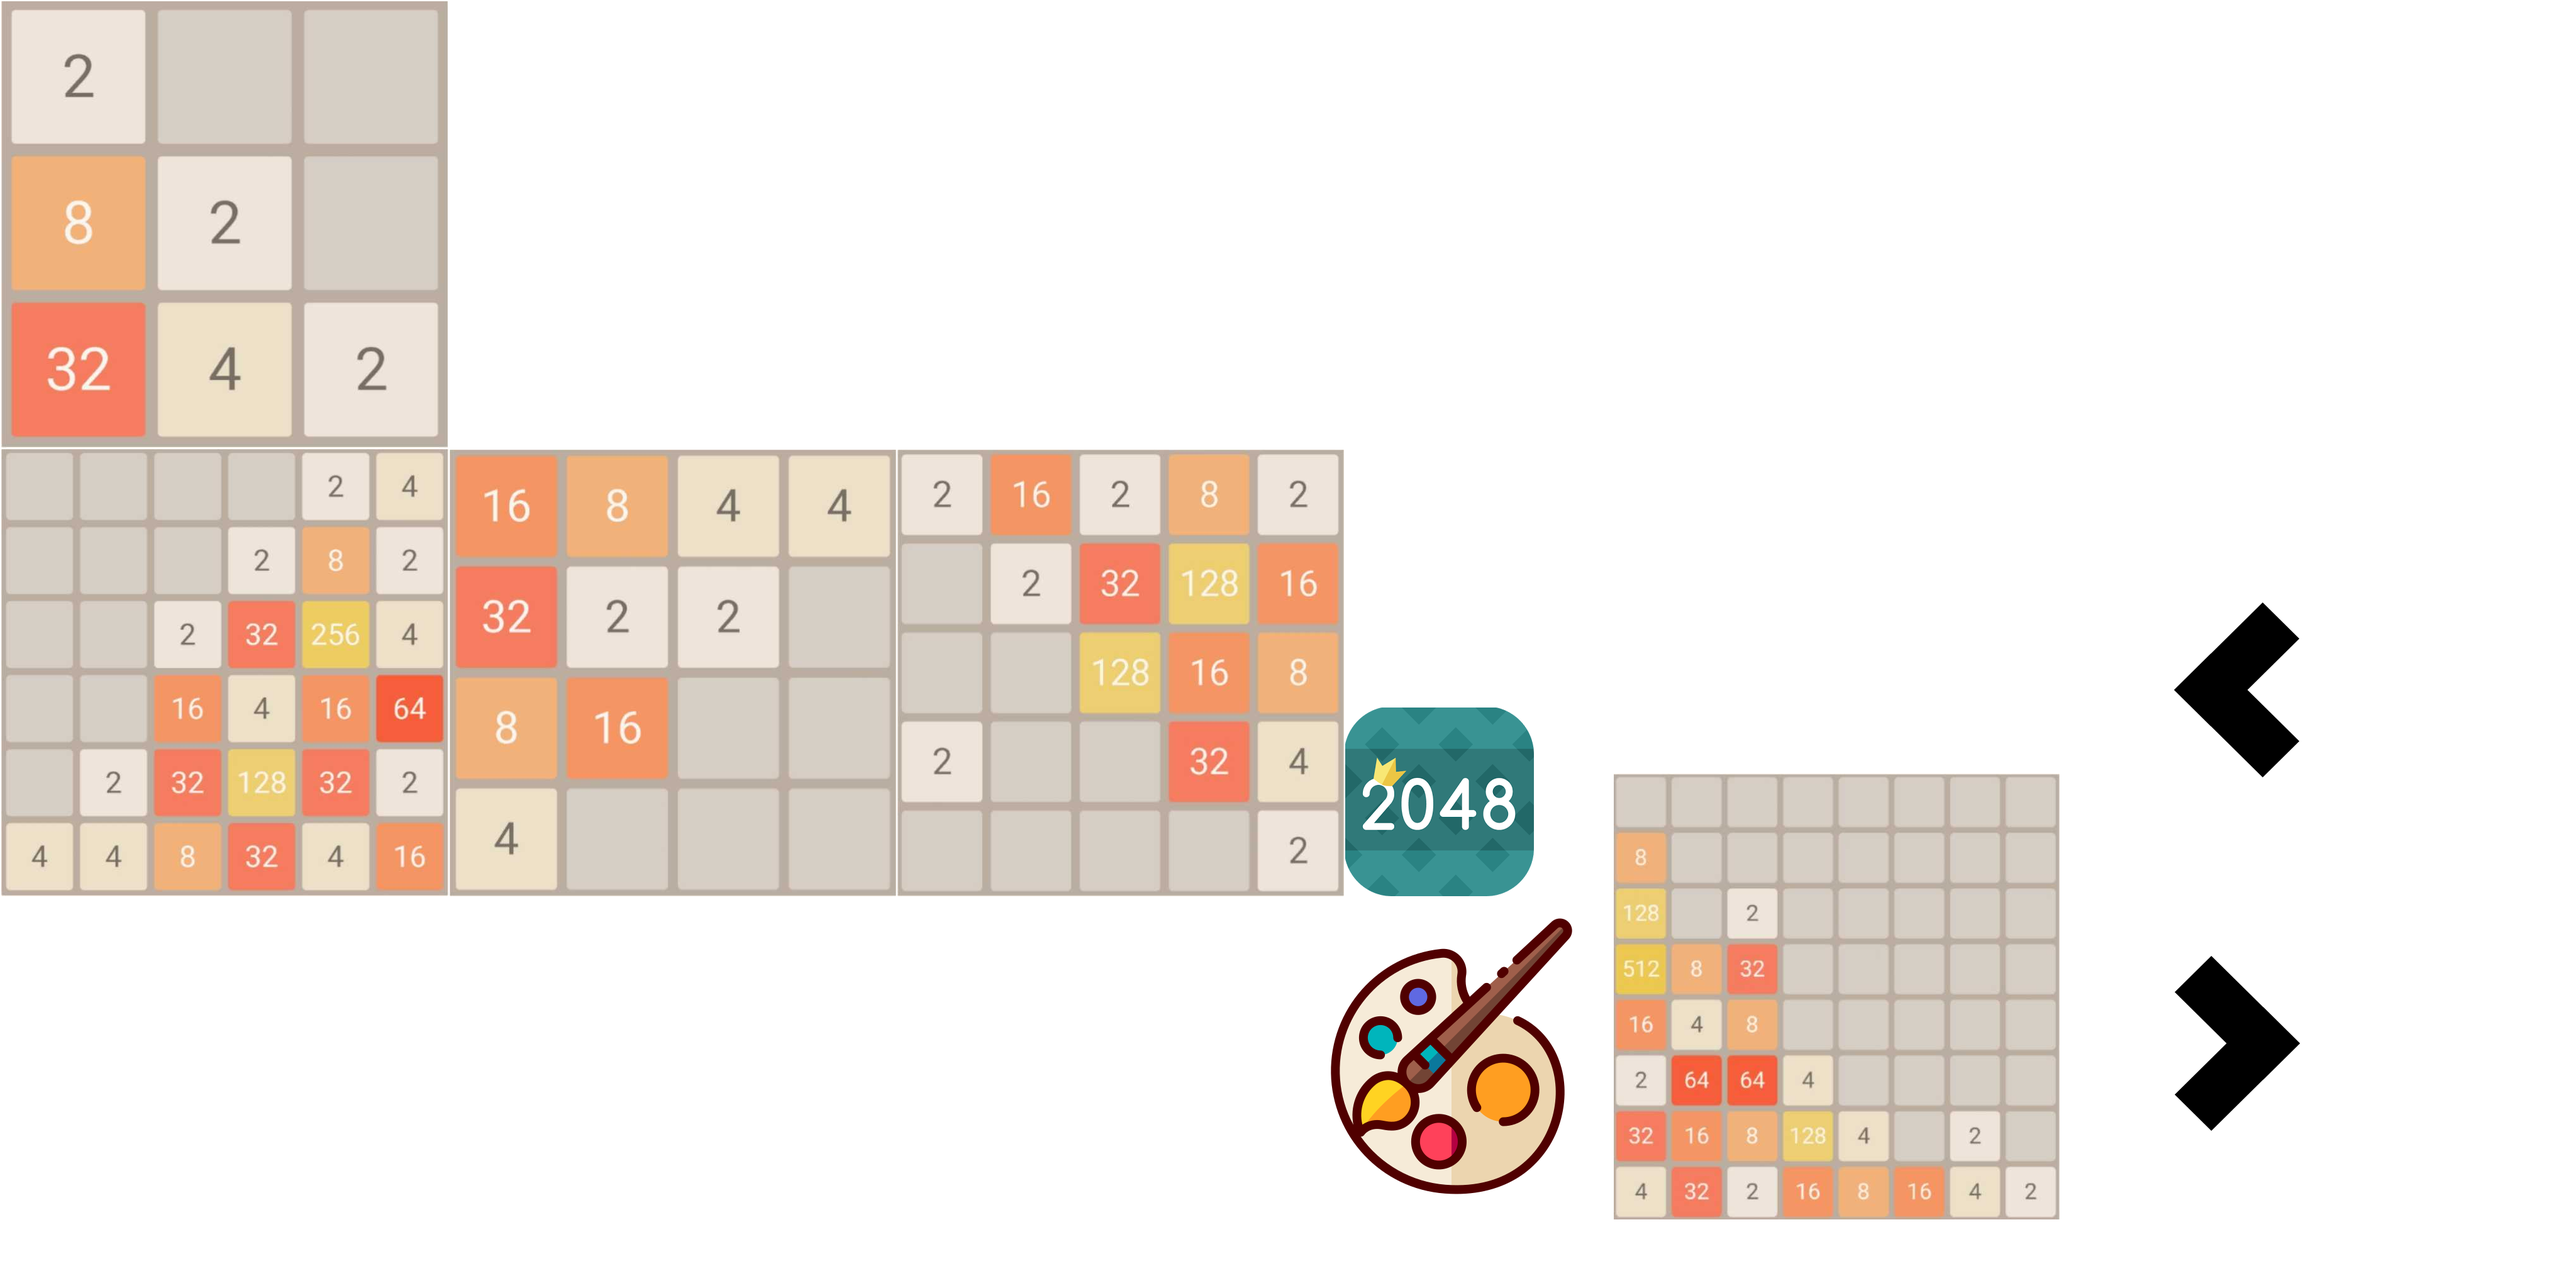
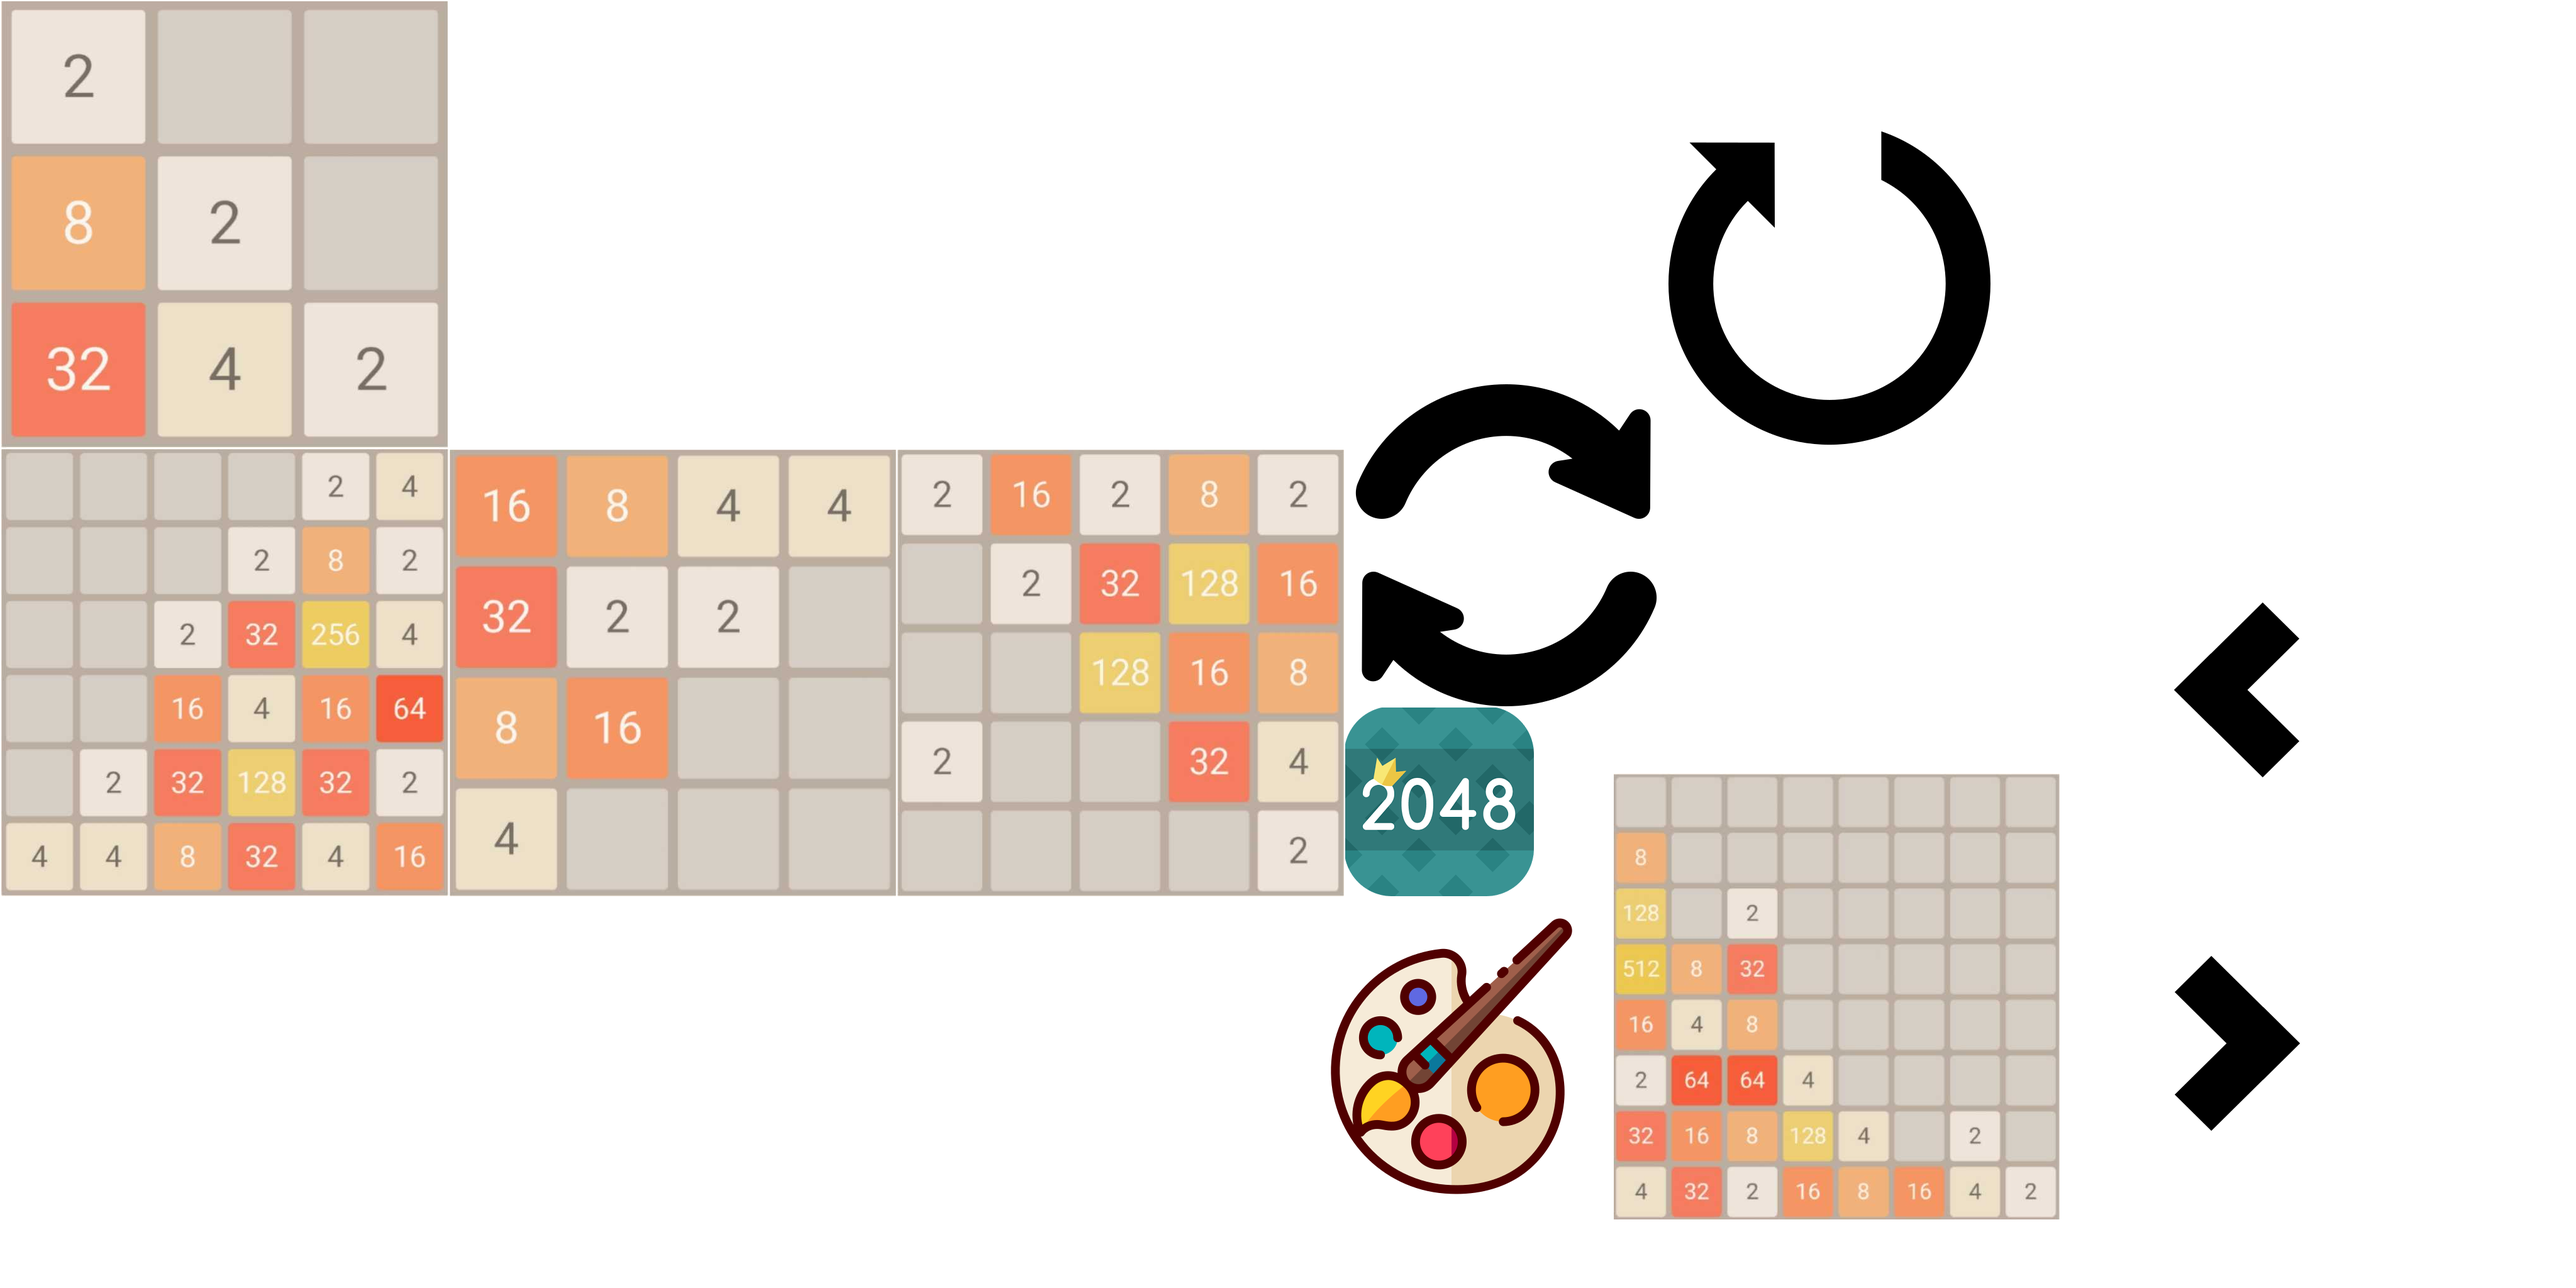
is created the BoardGroup, and GameScreen is modified

Changed region(s): [[0.5, 0.0938, 0.7812, 0.4062], [0.5312, 0.4375, 0.6562, 0.5625]]

diff --git a/core/src/com/mygdx/game/stages/GameStage.java b/core/src/com/mygdx/game/stages/GameStage.java
@@ -3,10 +3,11 @@ package com.mygdx.game.stages;
 import com.badlogic.gdx.Gdx;
 import com.badlogic.gdx.graphics.Color;
 import com.badlogic.gdx.graphics.g2d.TextureAtlas;
+import com.badlogic.gdx.scenes.scene2d.Group;
 import com.badlogic.gdx.scenes.scene2d.Stage;
+import com.badlogic.gdx.scenes.scene2d.actions.Actions;
 import com.badlogic.gdx.scenes.scene2d.ui.Button;
-import com.badlogic.gdx.scenes.scene2d.ui.Container;
-import com.badlogic.gdx.scenes.scene2d.ui.HorizontalGroup;
+import com.badlogic.gdx.scenes.scene2d.ui.Image;
 import com.badlogic.gdx.scenes.scene2d.ui.Label;
 import com.badlogic.gdx.scenes.scene2d.ui.Skin;
 import com.badlogic.gdx.scenes.scene2d.ui.Table;
@@ -15,6 +16,7 @@ import com.badlogic.gdx.utils.Align;
 import com.badlogic.gdx.utils.viewport.Viewport;
 import com.mygdx.game.managers.AssetsManager;
 import com.mygdx.game.managers.DataManager;
+import com.mygdx.game.utils.BoardGroup;
 import com.mygdx.game.utils.ConstInterface;
 
 /**
@@ -27,13 +29,12 @@ public class GameStage extends Stage {
     private AssetsManager assetsManager;
     private Skin skin;
     private Label titleLabel;
-    private HorizontalGroup horizontalGroup1;
-    private HorizontalGroup horizontalGroup2;
     private Table table;
     private TextButton countTextBtn;
     private TextButton recordTextBtn;
     private Button restartBtn;
-    private Button canceltBtn;
+    private Button cancelBan;
+    private BoardGroup boardGroup;
 
     public GameStage(final Viewport viewport) {
         super(viewport);
@@ -44,8 +45,12 @@ public class GameStage extends Stage {
         initManagers();
         initLabels();
         initButtons();
-        initHorizontalGroups();
+        initBoardGroup();
         initTable();
+    }
+
+    private void initBoardGroup() {
+        boardGroup = new BoardGroup();
     }
 
     private void initLabels() {
@@ -69,24 +74,17 @@ public class GameStage extends Stage {
         table = new Table();
         table.setSize(Gdx.graphics.getWidth(), Gdx.graphics.getHeight());
         table.top();
-//        table.add(horizontalGroup1).size(horizontalGroup1.getWidth(), horizontalGroup1.getHeight()).expandX();
-        table.add(titleLabel).size(titleLabel.getWidth(), titleLabel.getHeight()).left().expandX();
+        table.add(titleLabel).size(titleLabel.getWidth(), titleLabel.getHeight()).expandX().left();
         table.add(countTextBtn).size(countTextBtn.getWidth(), countTextBtn.getHeight()).right();
-        table.add(recordTextBtn).size(recordTextBtn.getWidth(), recordTextBtn.getHeight()).right();
+        table.add(recordTextBtn).size(recordTextBtn.getWidth(), recordTextBtn.getHeight()).right().padLeft(recordTextBtn.getWidth() * 0.2f).padRight(recordTextBtn.getWidth() * 0.2f);
+        table.row().right();
+        table.add().left();
+        table.add(cancelBan).size(cancelBan.getWidth(), cancelBan.getHeight()).right();
+        table.add(restartBtn).size(restartBtn.getWidth(), restartBtn.getHeight()).right().padLeft(recordTextBtn.getWidth() * 0.2f).padRight(recordTextBtn.getWidth() * 0.2f);
+        table.row();
+        table.add(boardGroup).size(boardGroup.getWidth(), boardGroup.getHeight()).colspan(3).spaceTop(boardGroup.getWidth() * 0.02f);
         addActor(table);
-        table.debugAll();
-    }
-
-    private void initHorizontalGroups() {
-        horizontalGroup1 = new HorizontalGroup();
-        horizontalGroup1.setSize(Gdx.graphics.getWidth(), Gdx.graphics.getHeight() * 0.15f);
-        horizontalGroup1.addActor(new Container<>(titleLabel).size(titleLabel.getWidth(), titleLabel.getHeight()).left());
-        horizontalGroup1.addActor(new Container<>(countTextBtn).size(countTextBtn.getWidth(), countTextBtn.getHeight()).right());
-        horizontalGroup1.addActor(new Container<>(recordTextBtn).size(recordTextBtn.getWidth(), recordTextBtn.getHeight()).right());
-
-        horizontalGroup2 = new HorizontalGroup();
-
-
+        //table.debugAll();
     }
 
     private void initButtons() {
@@ -94,12 +92,24 @@ public class GameStage extends Stage {
         textButtonStyle.font = assetsManager.getInternalManager().get(ConstInterface.CONSOLAS_SMALL_FONT);
         textButtonStyle.fontColor = Color.BLACK;
 
-        countTextBtn = new TextButton("count", textButtonStyle);
-        countTextBtn.setSize(Gdx.graphics.getWidth() * 0.15f, Gdx.graphics.getWidth() * 0.15f);
+        countTextBtn = new TextButton("score", textButtonStyle);
+        countTextBtn.setSize(Gdx.graphics.getWidth() * 0.2f, Gdx.graphics.getWidth() * 0.2f);
         countTextBtn.getLabel().setAlignment(Align.top);
 
         recordTextBtn = new TextButton("record", textButtonStyle);
-        recordTextBtn.setSize(Gdx.graphics.getWidth() * 0.15f, Gdx.graphics.getWidth() * 0.15f);
+        recordTextBtn.setSize(Gdx.graphics.getWidth() * 0.2f, Gdx.graphics.getWidth() * 0.2f);
         recordTextBtn.getLabel().setAlignment(Align.top);
+
+        cancelBan = new Button(new Button.ButtonStyle());
+        cancelBan.setSize(Gdx.graphics.getWidth() * 0.2f, Gdx.graphics.getWidth() * 0.2f);
+        Image cancelImg = new Image(skin.getDrawable(ConstInterface.CANCEL));
+        cancelImg.setSize(Gdx.graphics.getWidth() * 0.05f, Gdx.graphics.getWidth() * 0.05f);
+        cancelBan.add(cancelImg).size(cancelImg.getWidth(), cancelImg.getHeight());
+
+        restartBtn = new Button(new Button.ButtonStyle());
+        restartBtn.setSize(Gdx.graphics.getWidth() * 0.2f, Gdx.graphics.getWidth() * 0.2f);
+        Image restartImg = new Image(skin.getDrawable(ConstInterface.RESTART));
+        restartImg.setSize(Gdx.graphics.getWidth() * 0.05f, Gdx.graphics.getWidth() * 0.05f);
+        restartBtn.add(restartImg).size(restartImg.getWidth(), restartImg.getHeight());
     }
 }

diff --git a/core/src/com/mygdx/game/utils/BoardGroup.java b/core/src/com/mygdx/game/utils/BoardGroup.java
@@ -1,0 +1,42 @@
+package com.mygdx.game.utils;
+
+import com.badlogic.gdx.Gdx;
+import com.badlogic.gdx.graphics.Color;
+import com.badlogic.gdx.scenes.scene2d.Group;
+import com.badlogic.gdx.scenes.scene2d.actions.Actions;
+import com.badlogic.gdx.scenes.scene2d.ui.Image;
+import com.badlogic.gdx.scenes.scene2d.ui.Skin;
+import com.mygdx.game.managers.AssetsManager;
+
+public class BoardGroup extends Group {
+    private int level;
+    private Skin skin;
+    private NumberGroup[][] numberGroups;
+
+    public BoardGroup(int level) {
+        this.level = level;
+        init();
+        this.setSize(Gdx.graphics.getWidth() * 0.9f, Gdx.graphics.getWidth() * 0.9f);
+        Image boardImg = new Image(skin.getDrawable(ConstInterface.WHITE_RECT));
+        boardImg.setSize(this.getWidth(), this.getHeight());
+        Image image = new Image(skin.getDrawable(ConstInterface.NUMBER_BG));
+        image.setSize(60, 60);
+        boardImg.addAction(Actions.color(new Color(0.74f, 0.67f, 0.64f, 1)));
+        addActor(boardImg);
+        addActor(image);
+    }
+
+    private void init() {
+        initSkin();
+    }
+
+    private void initNumberGroups(){
+        numberGroups = new NumberGroup[level][level];
+
+    }
+
+    private void initSkin() {
+        skin = new Skin();
+        skin.addRegions(AssetsManager.getInstance().getInternalManager().get(ConstInterface.IMAGES_PATH + ConstInterface.ATLAS));
+    }
+}

diff --git a/core/src/com/mygdx/game/utils/NumberGroup.java b/core/src/com/mygdx/game/utils/NumberGroup.java
@@ -1,0 +1,30 @@
+package com.mygdx.game.utils;
+
+import com.badlogic.gdx.graphics.Color;
+import com.badlogic.gdx.scenes.scene2d.Group;
+import com.badlogic.gdx.scenes.scene2d.actions.Actions;
+import com.badlogic.gdx.scenes.scene2d.ui.Image;
+import com.badlogic.gdx.scenes.scene2d.ui.Skin;
+import com.mygdx.game.managers.AssetsManager;
+
+public class NumberGroup extends Group {
+    private Skin skin;
+    private Image numberImg;
+
+    public NumberGroup() {
+        init();
+    }
+
+    private void init() {
+        skin = new Skin();
+        skin.addRegions(AssetsManager.getInstance().getInternalManager().get(ConstInterface.ATLAS));
+
+        numberImg = new Image(skin.getDrawable(ConstInterface.NUMBER_BG));
+        numberImg.setSize(getWidth() * 0.9f, getHeight() * 0.9f);
+        numberImg.addAction(Actions.color(new Color(0.84f, 0.81f, 0.77f, 1)));
+    }
+
+    public Image getNumberImg() {
+        return numberImg;
+    }
+}

diff --git a/core/src/com/mygdx/game/utils/ConstInterface.java b/core/src/com/mygdx/game/utils/ConstInterface.java
@@ -28,6 +28,9 @@ public interface ConstInterface {
     String ARROW_RIGHT = "arrow_right";
     String NUMBER_BG = "number_bg";
     String BTN_BG = "btn_bg";
+    String RESTART = "restart";
+    String CANCEL = "cancel";
+    String WHITE_RECT = "white_rect";
 
     //fonts
     String CONSOLAS_LARGE_FONT = "Consolas_large.ttf";
